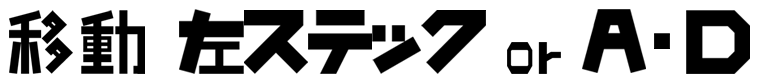
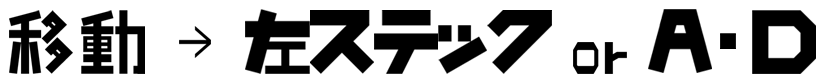
リザルト画面のポーズ画像を差し替え

diff --git a/TGS/ProjectData/GameSources/MyUI.h b/TGS/ProjectData/GameSources/MyUI.h
@@ -747,6 +747,7 @@ namespace basecross {
 		float m_titleFontSize;
 
 		wstring m_baseImageName;
+		wstring m_titleImageName;
 		wstring m_operationImageName;
 		wstring m_titlebackImageName;
 		wstring m_selectbackImageName;
@@ -755,7 +756,7 @@ namespace basecross {
 		wstring m_moveImageName;
 
 		std::shared_ptr<UI_Static_Image> m_base;
-		shared_ptr<UI_Sprite_Text> m_title;
+		shared_ptr<UI_Static_Image> m_title;
 		std::shared_ptr<UI_Tab> m_tab;
 		shared_ptr<UI_Score_Table> m_scoreTable;
 		std::shared_ptr<UI_Static_Image> m_operation;
@@ -799,6 +800,7 @@ namespace basecross {
 			m_characterStatusKillDetails(vector<CharacterKillDetails_s>(NULL)),
 			m_isShow(false),
 			m_baseImageName(L"PS_Base.png"),
+			m_titleImageName(L"PS_Title.png"),
 			m_operationImageName(L"Operation.png"),
 			m_titlebackImageName(L"OperationReturn.png"),
 			m_selectbackImageName(L"OperationStart.png"),

diff --git a/TGS/ProjectData/GameSources/ResultStage.cpp b/TGS/ProjectData/GameSources/ResultStage.cpp
@@ -226,8 +226,8 @@ namespace basecross {
 			);
 		
 		AddGameObject<UI_Static_Image>(
-			Vec2(797.0f, 82.0f),
-			Vec3(-740.0f, -500.0f, 0.0f),
+			Vec2(863.0f, 82.0f),
+			Vec3(-730.0f, -500.0f, 0.0f),
 			Vec3(0.5f),
 			m_layer + 101,
 			Col4(1.0f),
